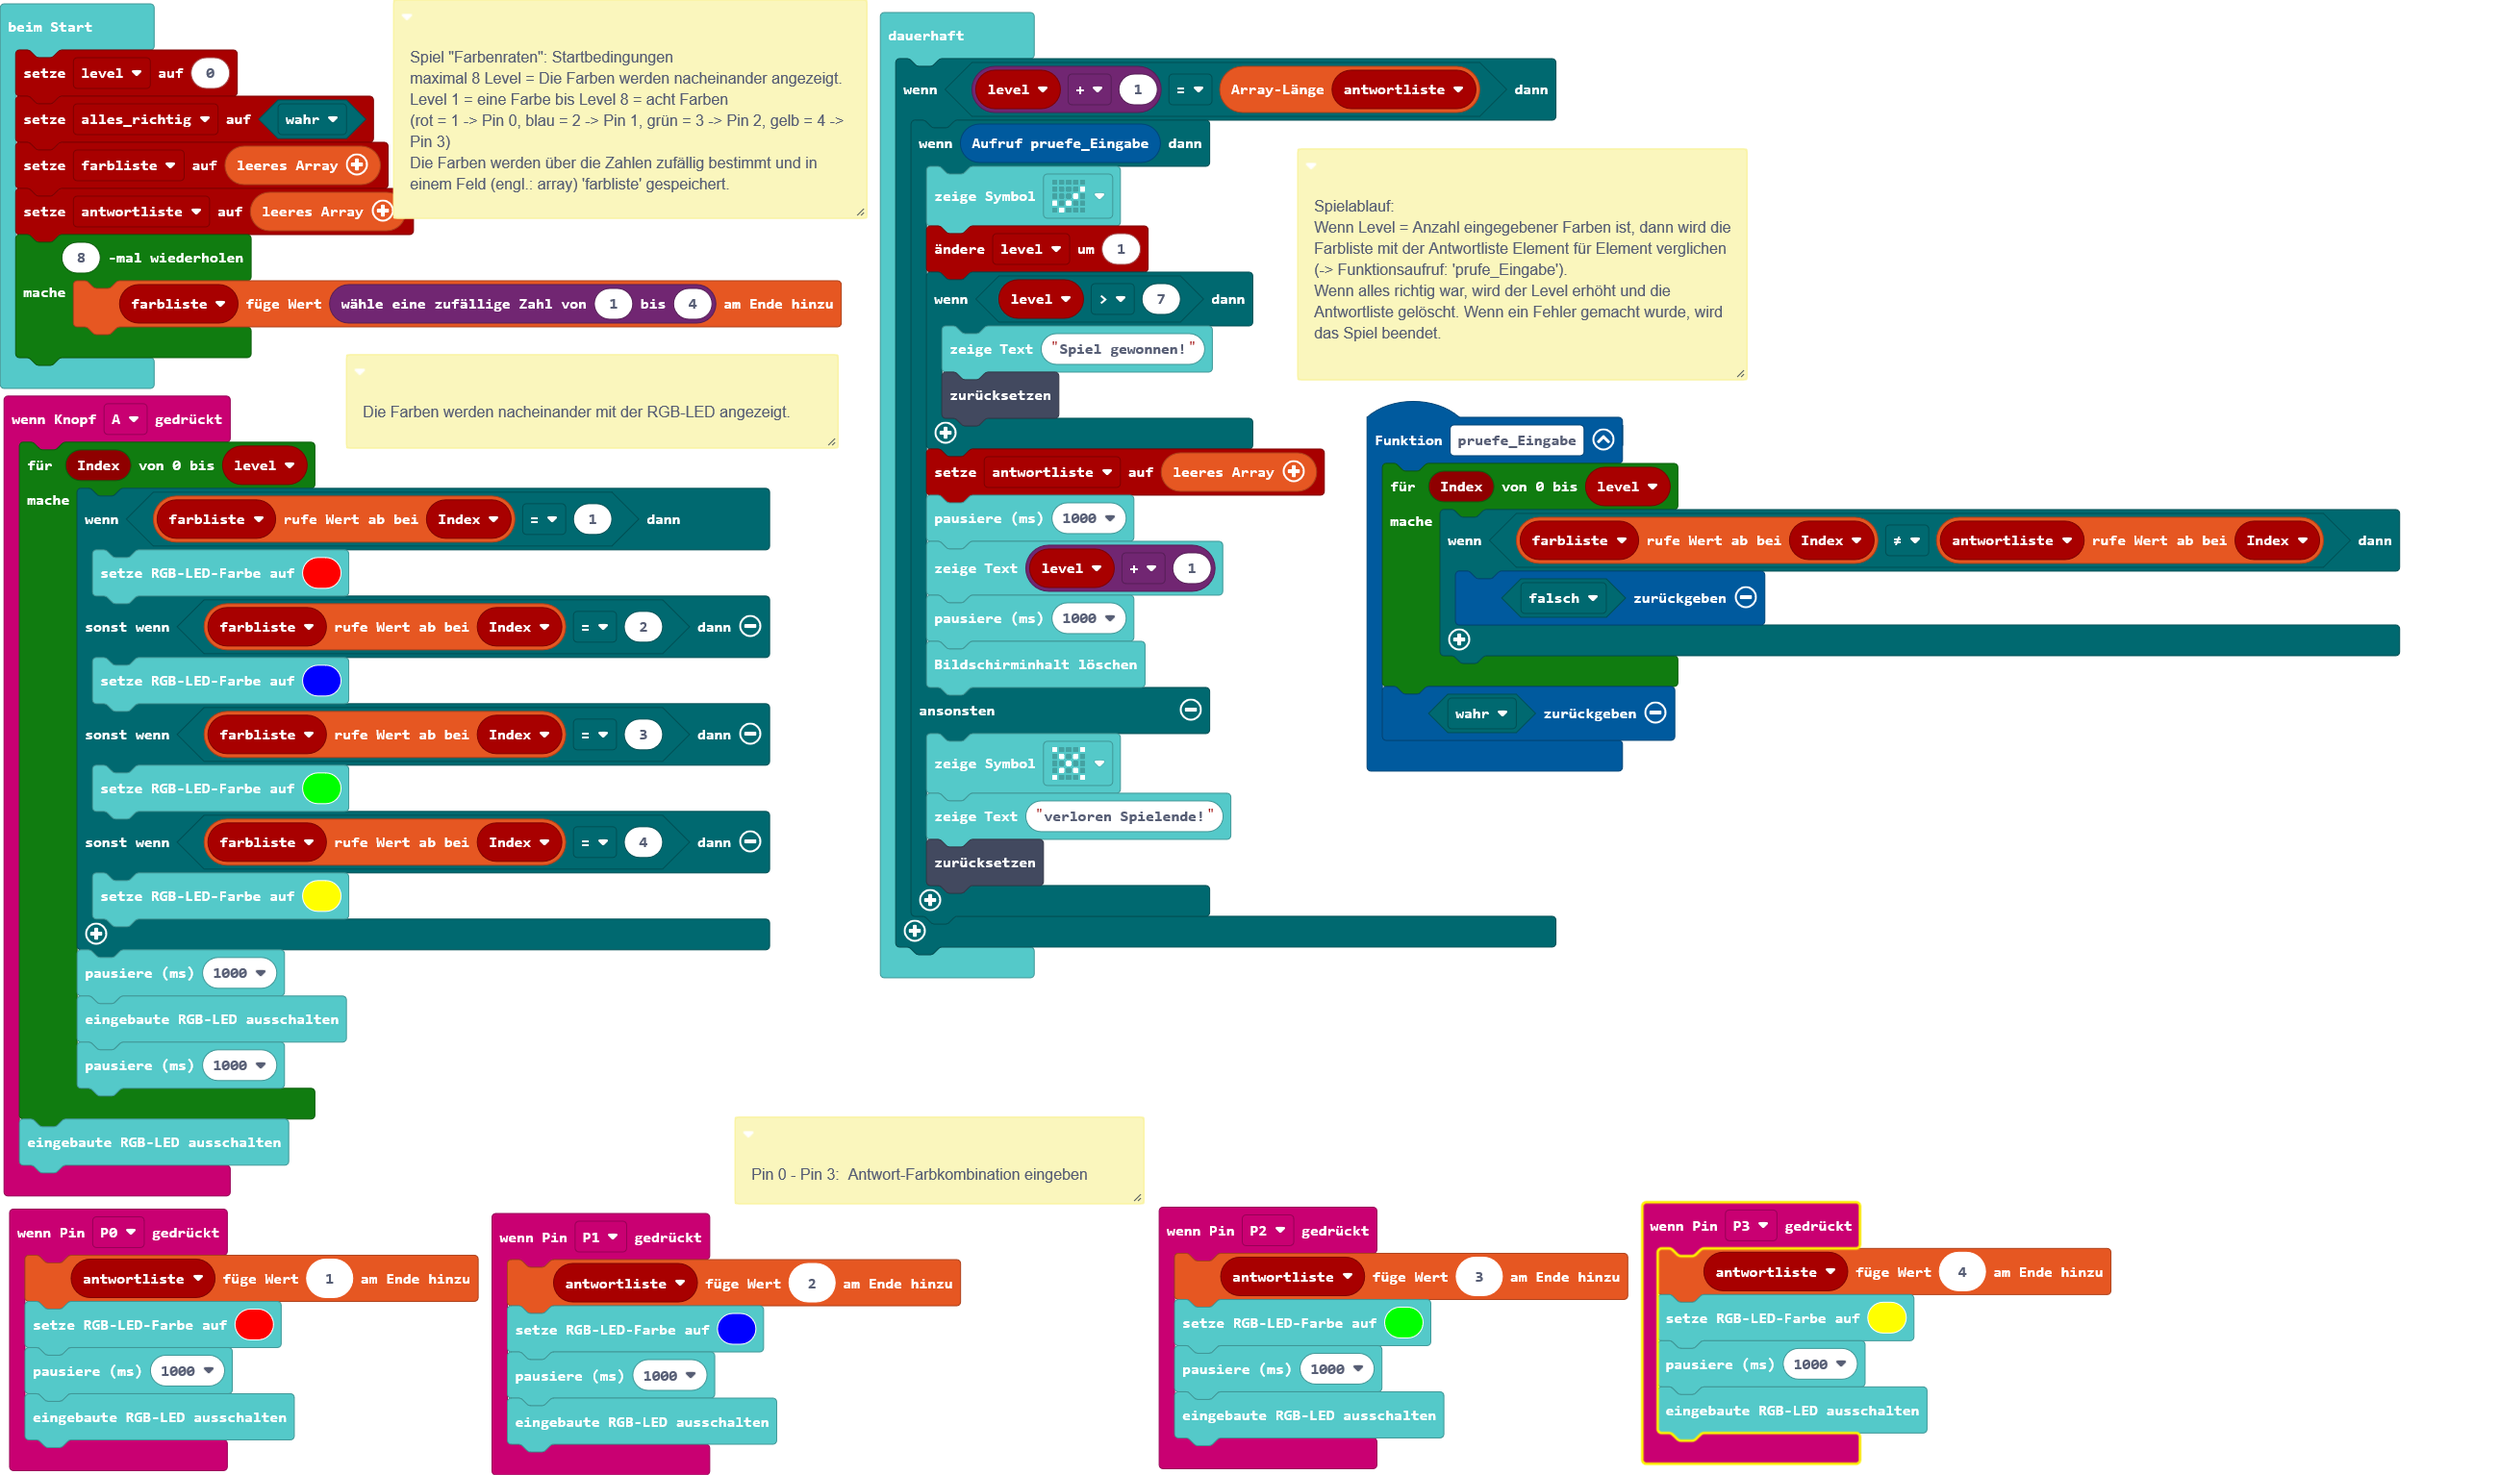
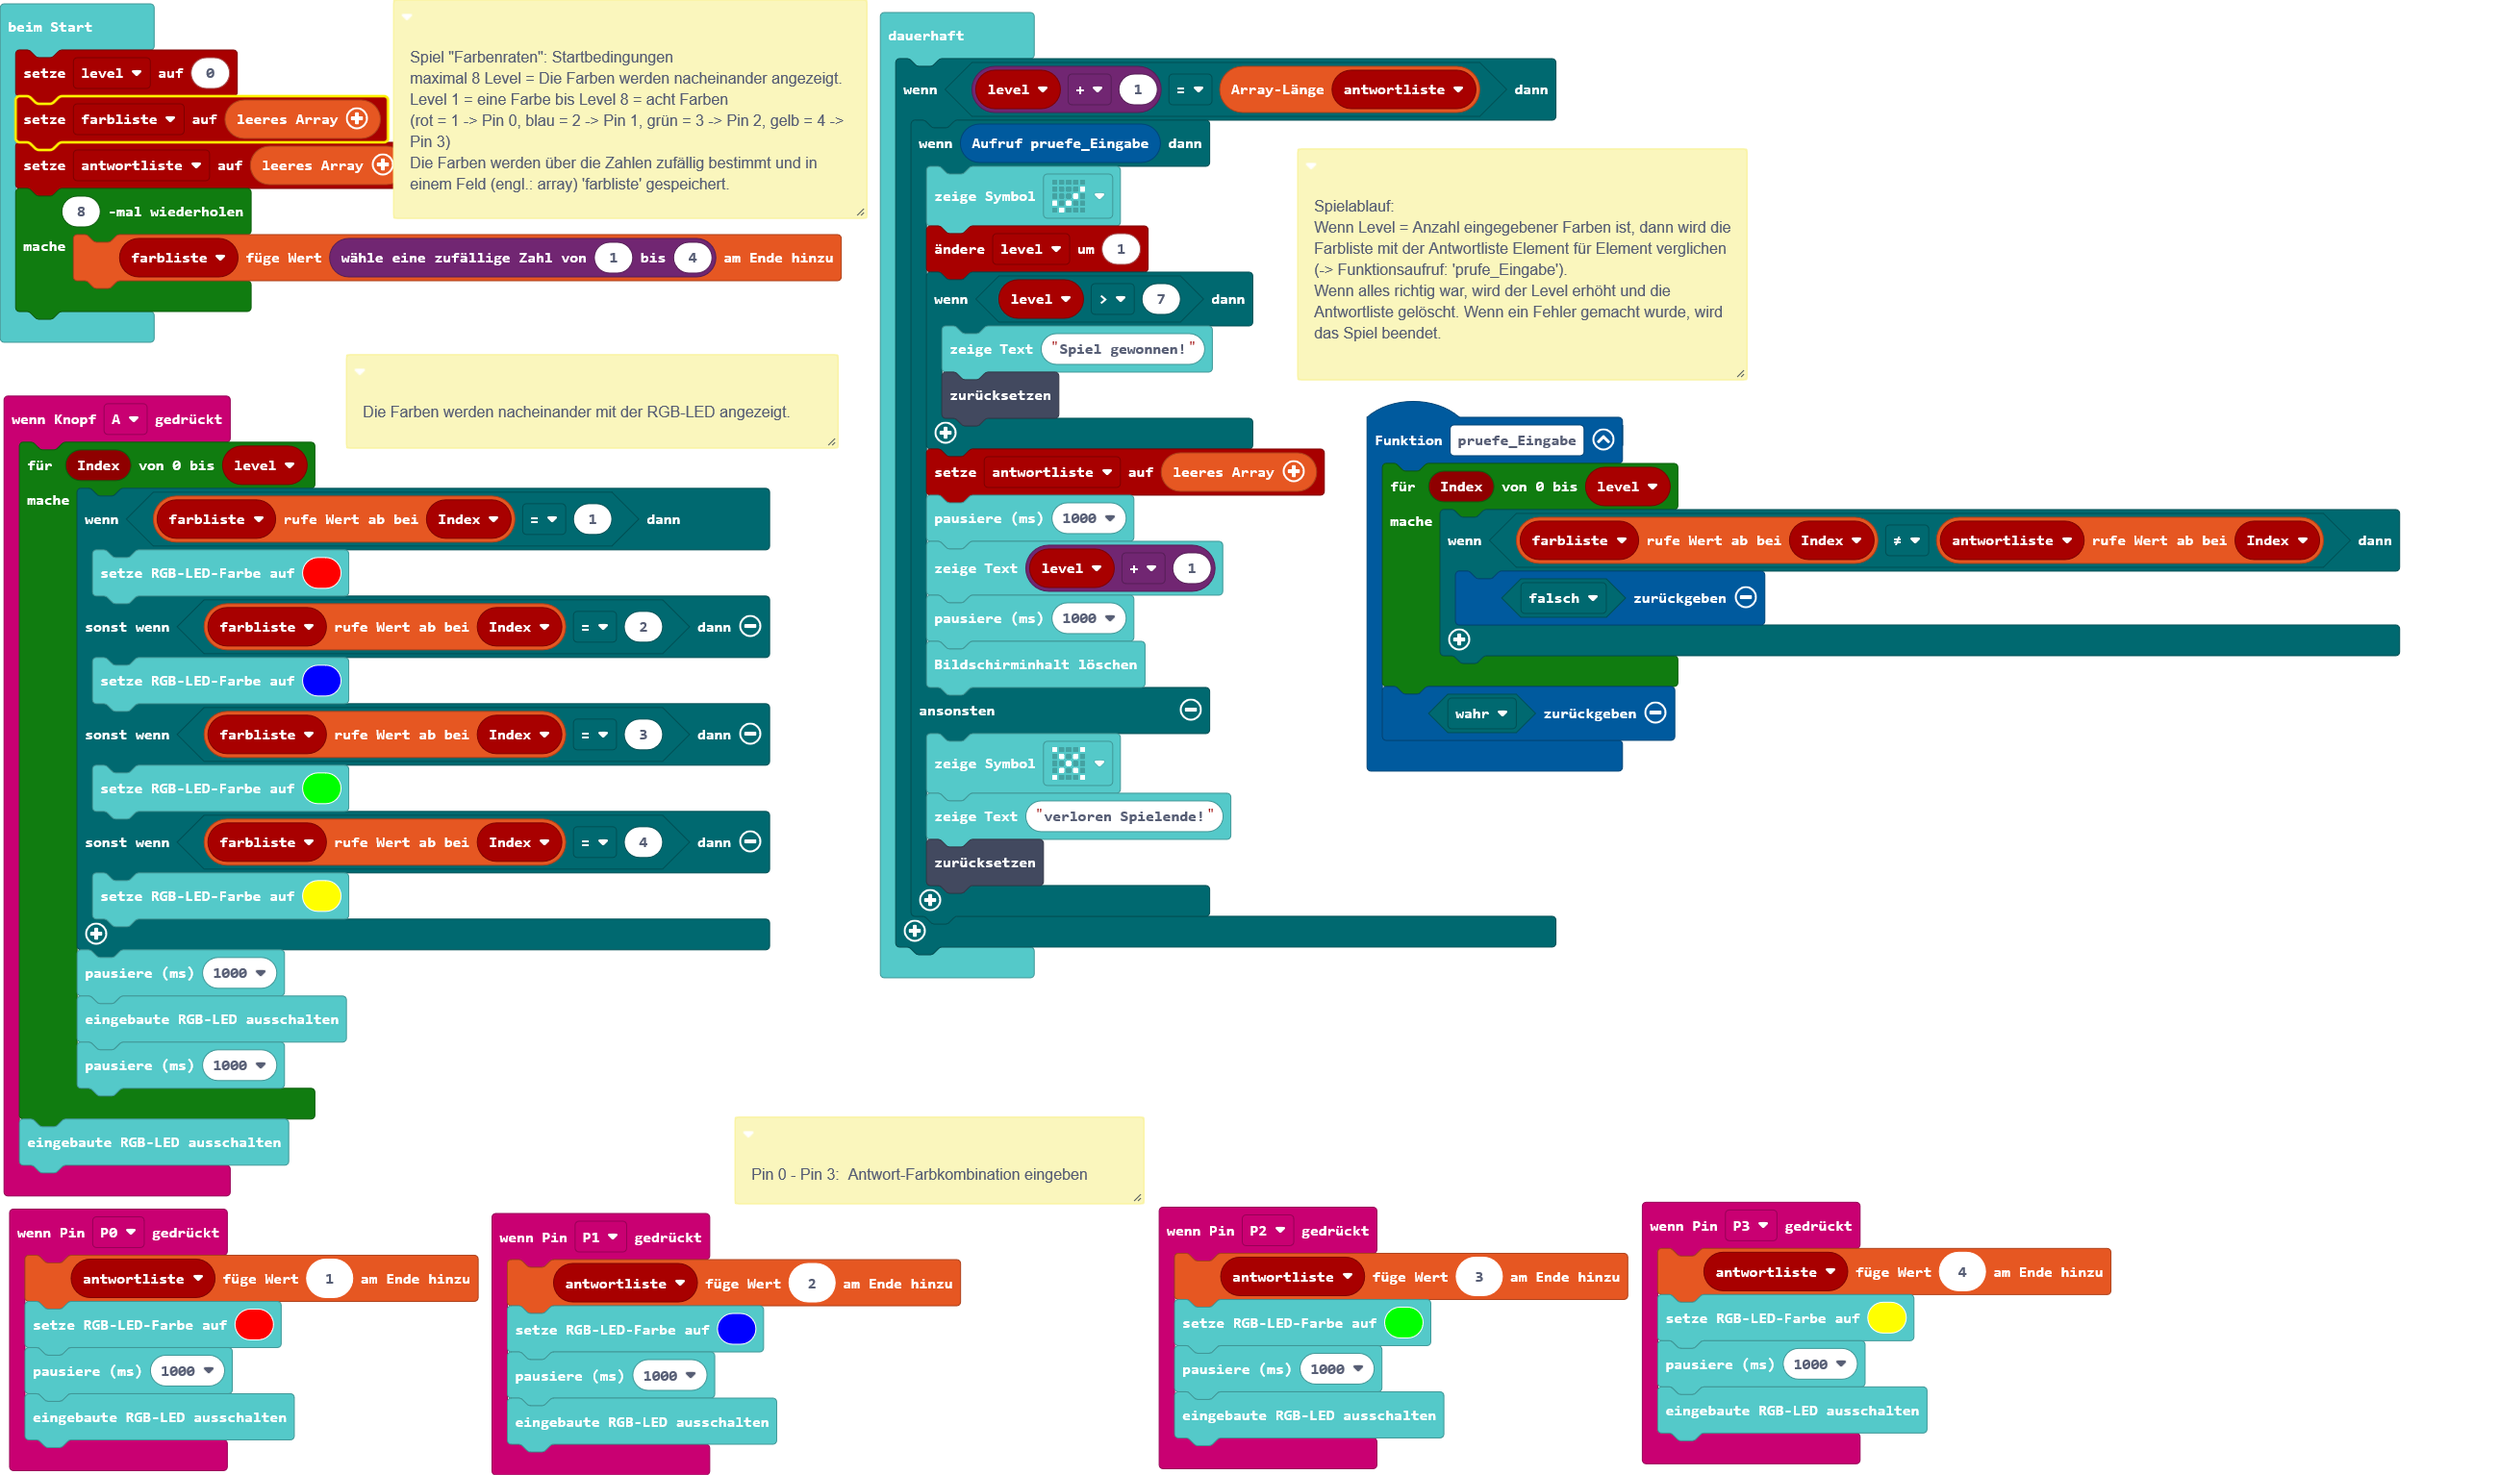
Aktualisiere main.blocks, main.ts

Changed region(s): [[0.0, 0.0613, 0.343, 0.2757], [0.6547, 0.7966, 0.7483, 1.0]]

diff --git a/main.ts b/main.ts
@@ -19,6 +19,9 @@ function pruefe_Eingabe () {
     return true
 }
 /**
+ * Die Farben werden nacheinander mit der RGB-LED angezeigt.
+ */
+/**
  * Pin 0 - Pin 3:  Antwort-Farbkombination eingeben
  */
 input.onButtonPressed(Button.A, function () {
@@ -59,14 +62,10 @@ input.onPinPressed(TouchPin.P1, function () {
  * 
  * Die Farben werden über die Zahlen zufällig bestimmt und in einem Feld (engl.: array) 'farbliste' gespeichert.
  */
-/**
- * Die Farben werden nacheinander mit der RGB-LED angezeigt.
- */
 let antwortliste: number[] = []
 let farbliste: number[] = []
 let level = 0
 level = 0
-let alles_richtig = true
 farbliste = []
 antwortliste = []
 for (let index = 0; index < 8; index++) {
